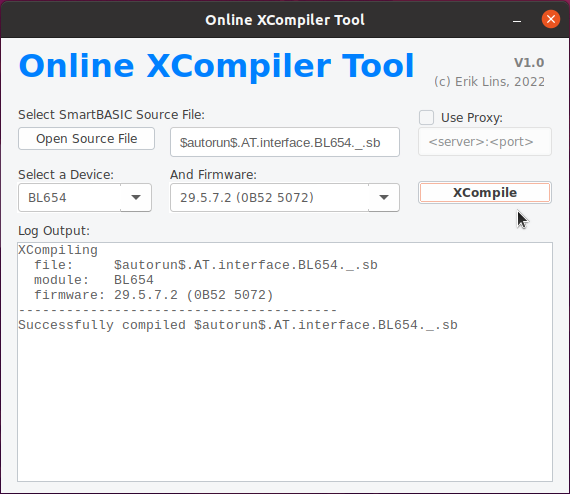
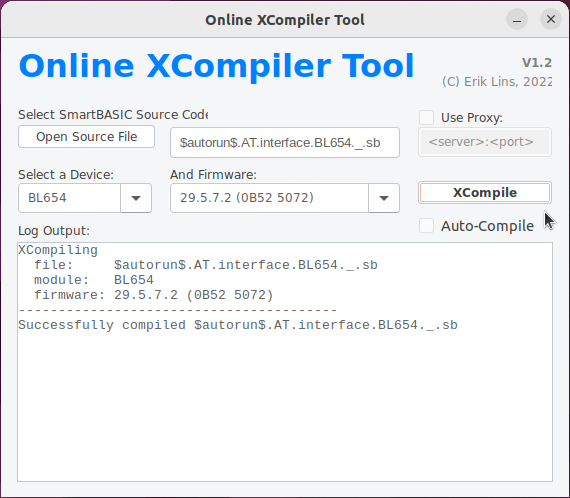
Updated README.md and images.

diff --git a/README.md b/README.md
@@ -1,20 +1,19 @@
 # Online XCompiler Tool
-Simple Online XCompiler Tool for the Laird SmartBASIC Online Compiler.
 
-# Simple Frontend for Laird's SmartBASIC Online XCompiler
+## Simple Frontend for Laird's SmartBASIC Online XCompiler
 Laird's online xcompiler lives at http://uwterminalx.no-ip.org/ and offers online compiling of SmartBASIC applications for different SmartBASIC driven Bluetooth modules and SmartBASIC firmware versions, even some which are not supported by the UwTerminalX application. However, it can only compile a single file and does not support #include statements, which are commonly used in SmartBASIC code.
 
-The Online XCompiler Tool supports this and can compile SmartBASIC files \#include'ing other SmartBASIC files. Beside this it's just a bit more convenient to use than the web based xcompiler.
+The Online XCompiler Tool supports this and can compile SmartBASIC files \#include'ing other SmartBASIC files. The new Auto-Compile mode continously monitors the source file and all included files and starts compilation as soon as one of the files has been changed.
 
 It can run under Windows 32 and 64 bit as well as Linux 32 and 64 bit.
 
 ![Online XCompiler Tool - Windows](images/OnlineXCompilerTool_Windows.png)
 ![Online XCompiler Tool - Linux](images/OnlineXCompilerTool_Linux.png)
 
-On startup it loads the web page from above URL and grabs devices and firmware versions from the HTML code and populates into the drop down boxes. After selecting a SmartBASIC source code file pressing XCompile button will invoke the online XCompiler and compile. On success it will save the compiled .uwc file to the same location from where the source file was loaded. On error the log output window will show the compiler error message.
+On startup it loads the web page from the original URL and grabs devices and firmware versions from the HTML code and populates into the drop down boxes. After selecting a SmartBASIC source code file pressing XCompile button will invoke the online XCompiler and compile. On success it will save the compiled .uwc file to the same location from where the source file was loaded. On error the log output window will show the compiler error message.
 
 ## Build Tool
-The Online XCompiler Tool was written with [Lazarus](https://www.lazarus-ide.org/index.php) / [Free Pascal](https://www.freepascal.org/). The full project and source code are available in the src folder.
+The Online XCompiler Tool was written with [Lazarus](https://www.lazarus-ide.org/index.php) / [Free Pascal](https://www.freepascal.org/). The project and full source code are available in the src folder.
 
 ## Releases
 Pre-built binaries for Windows 32/64 bit and Linux 32/64 bit are available on the [releases tab](https://github.com/eriklins/online-xcompiler-tool/releases). These do not require any particular installation, just download and run.
